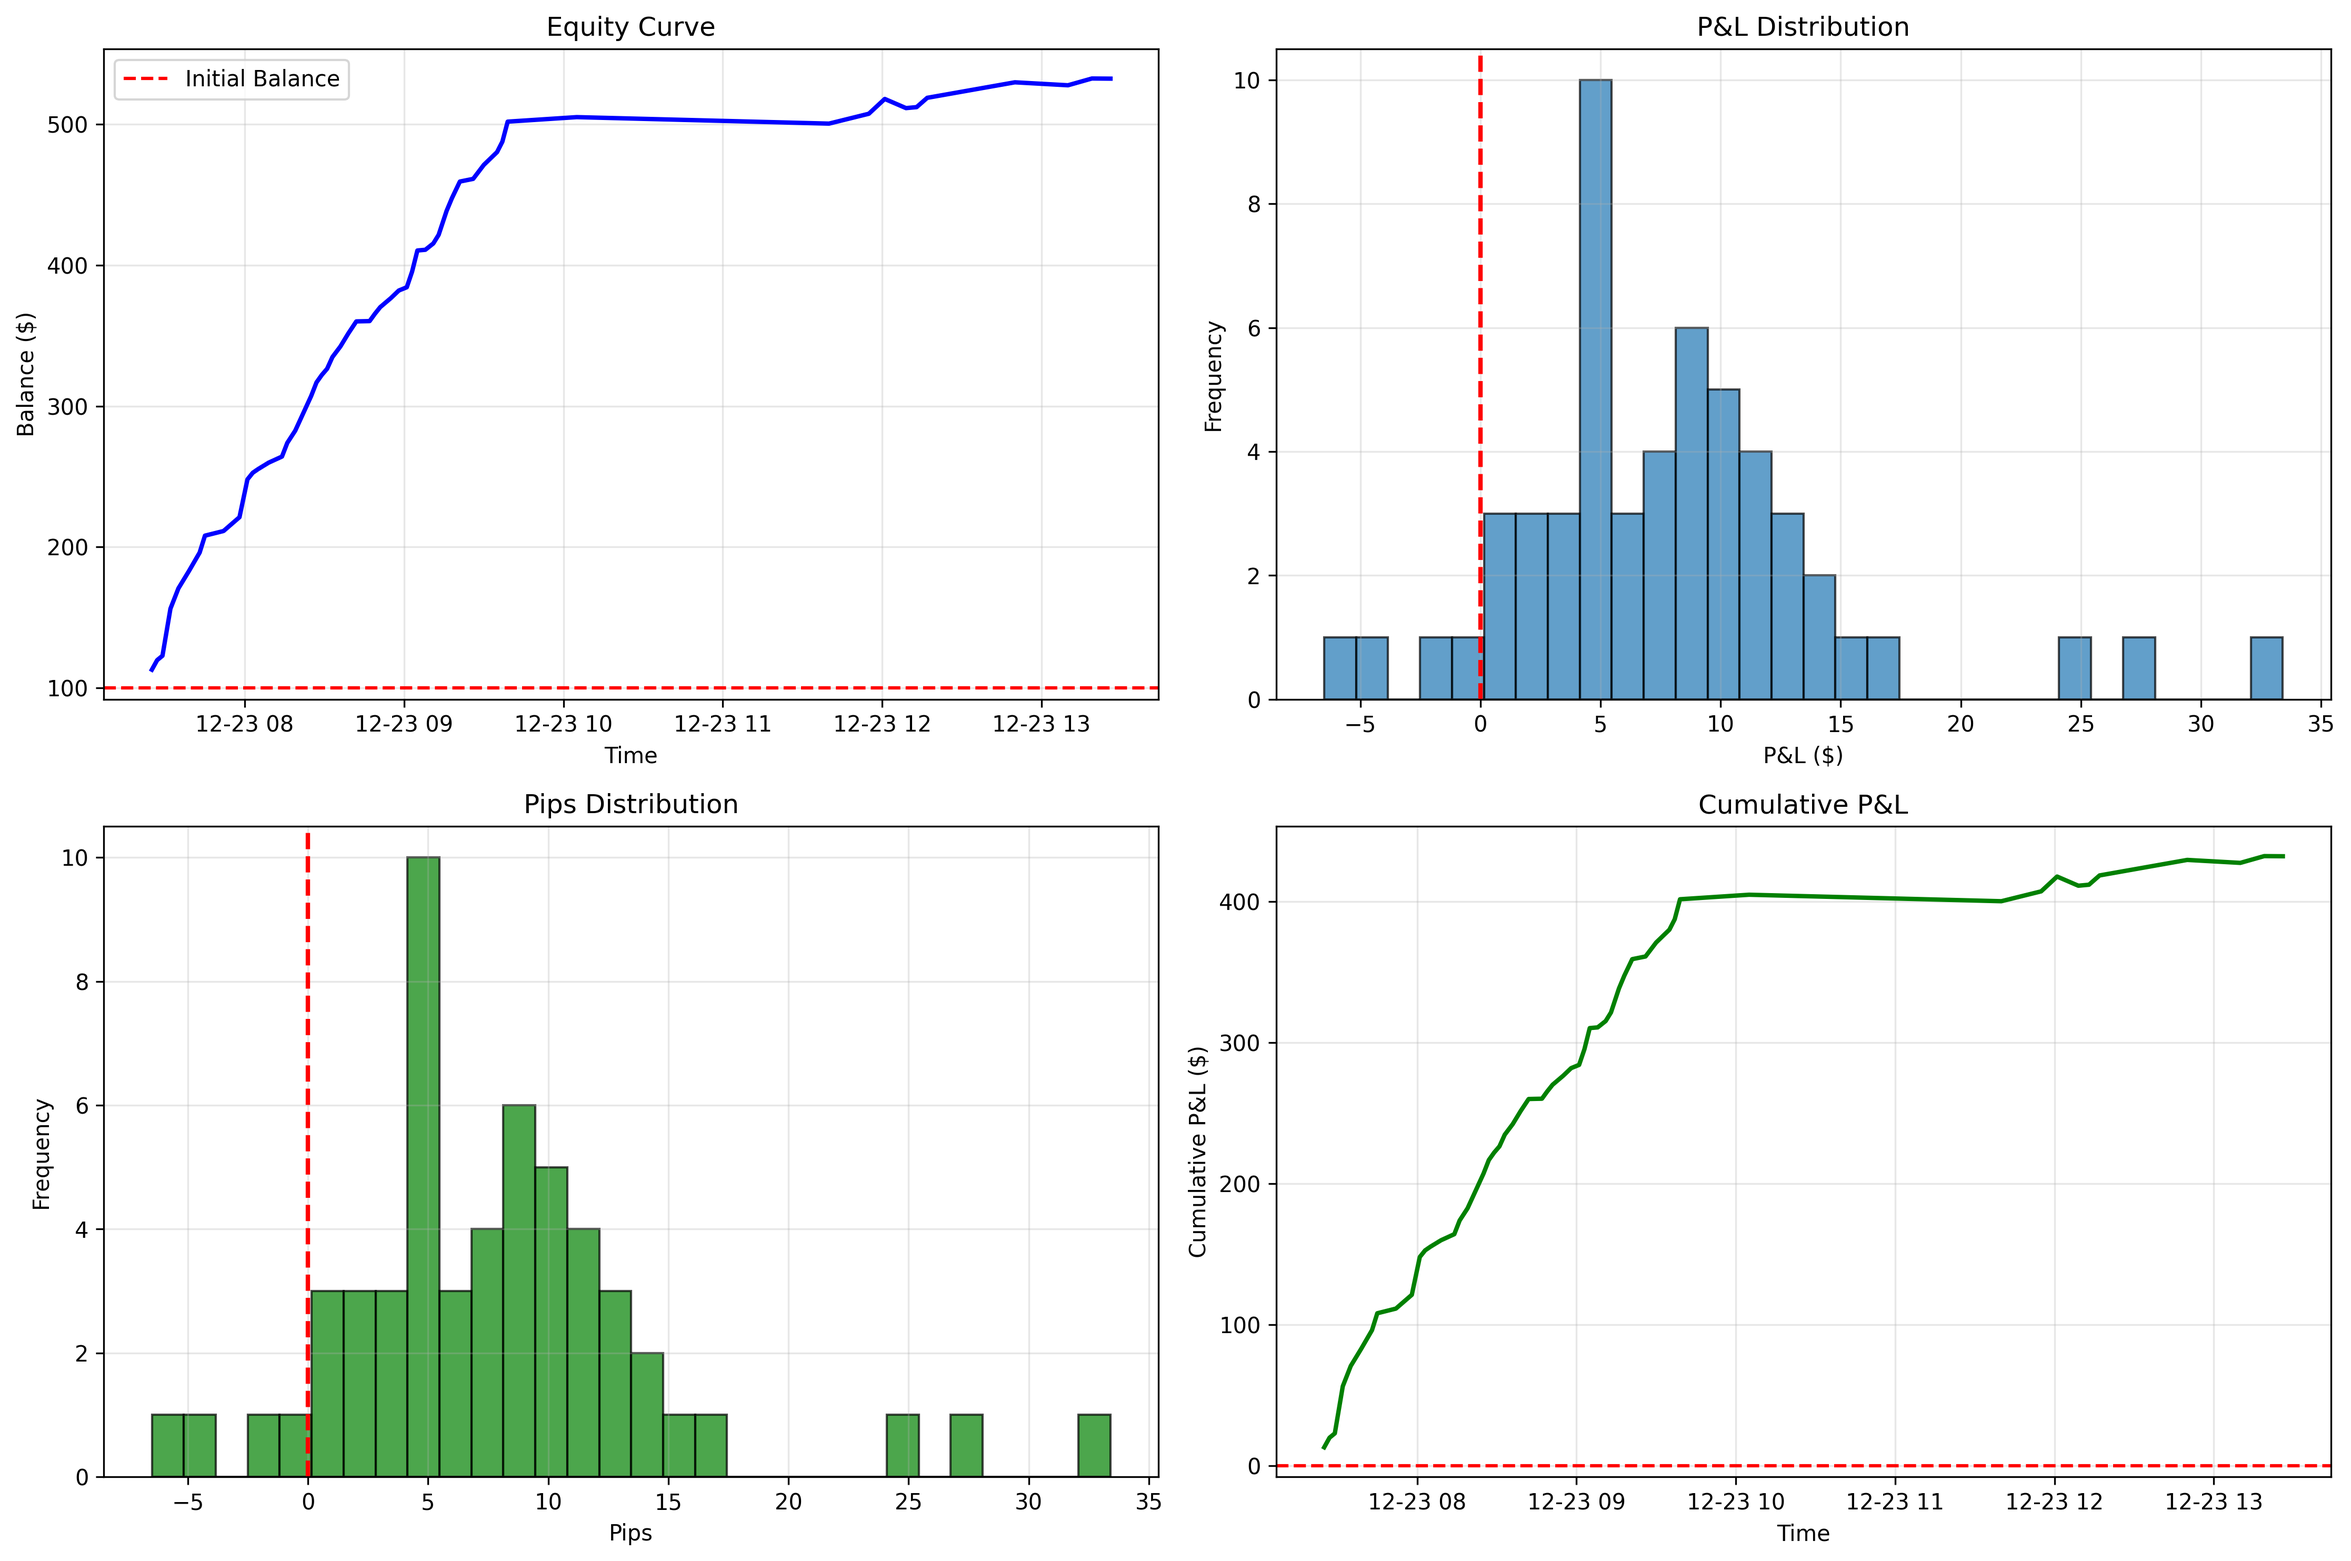
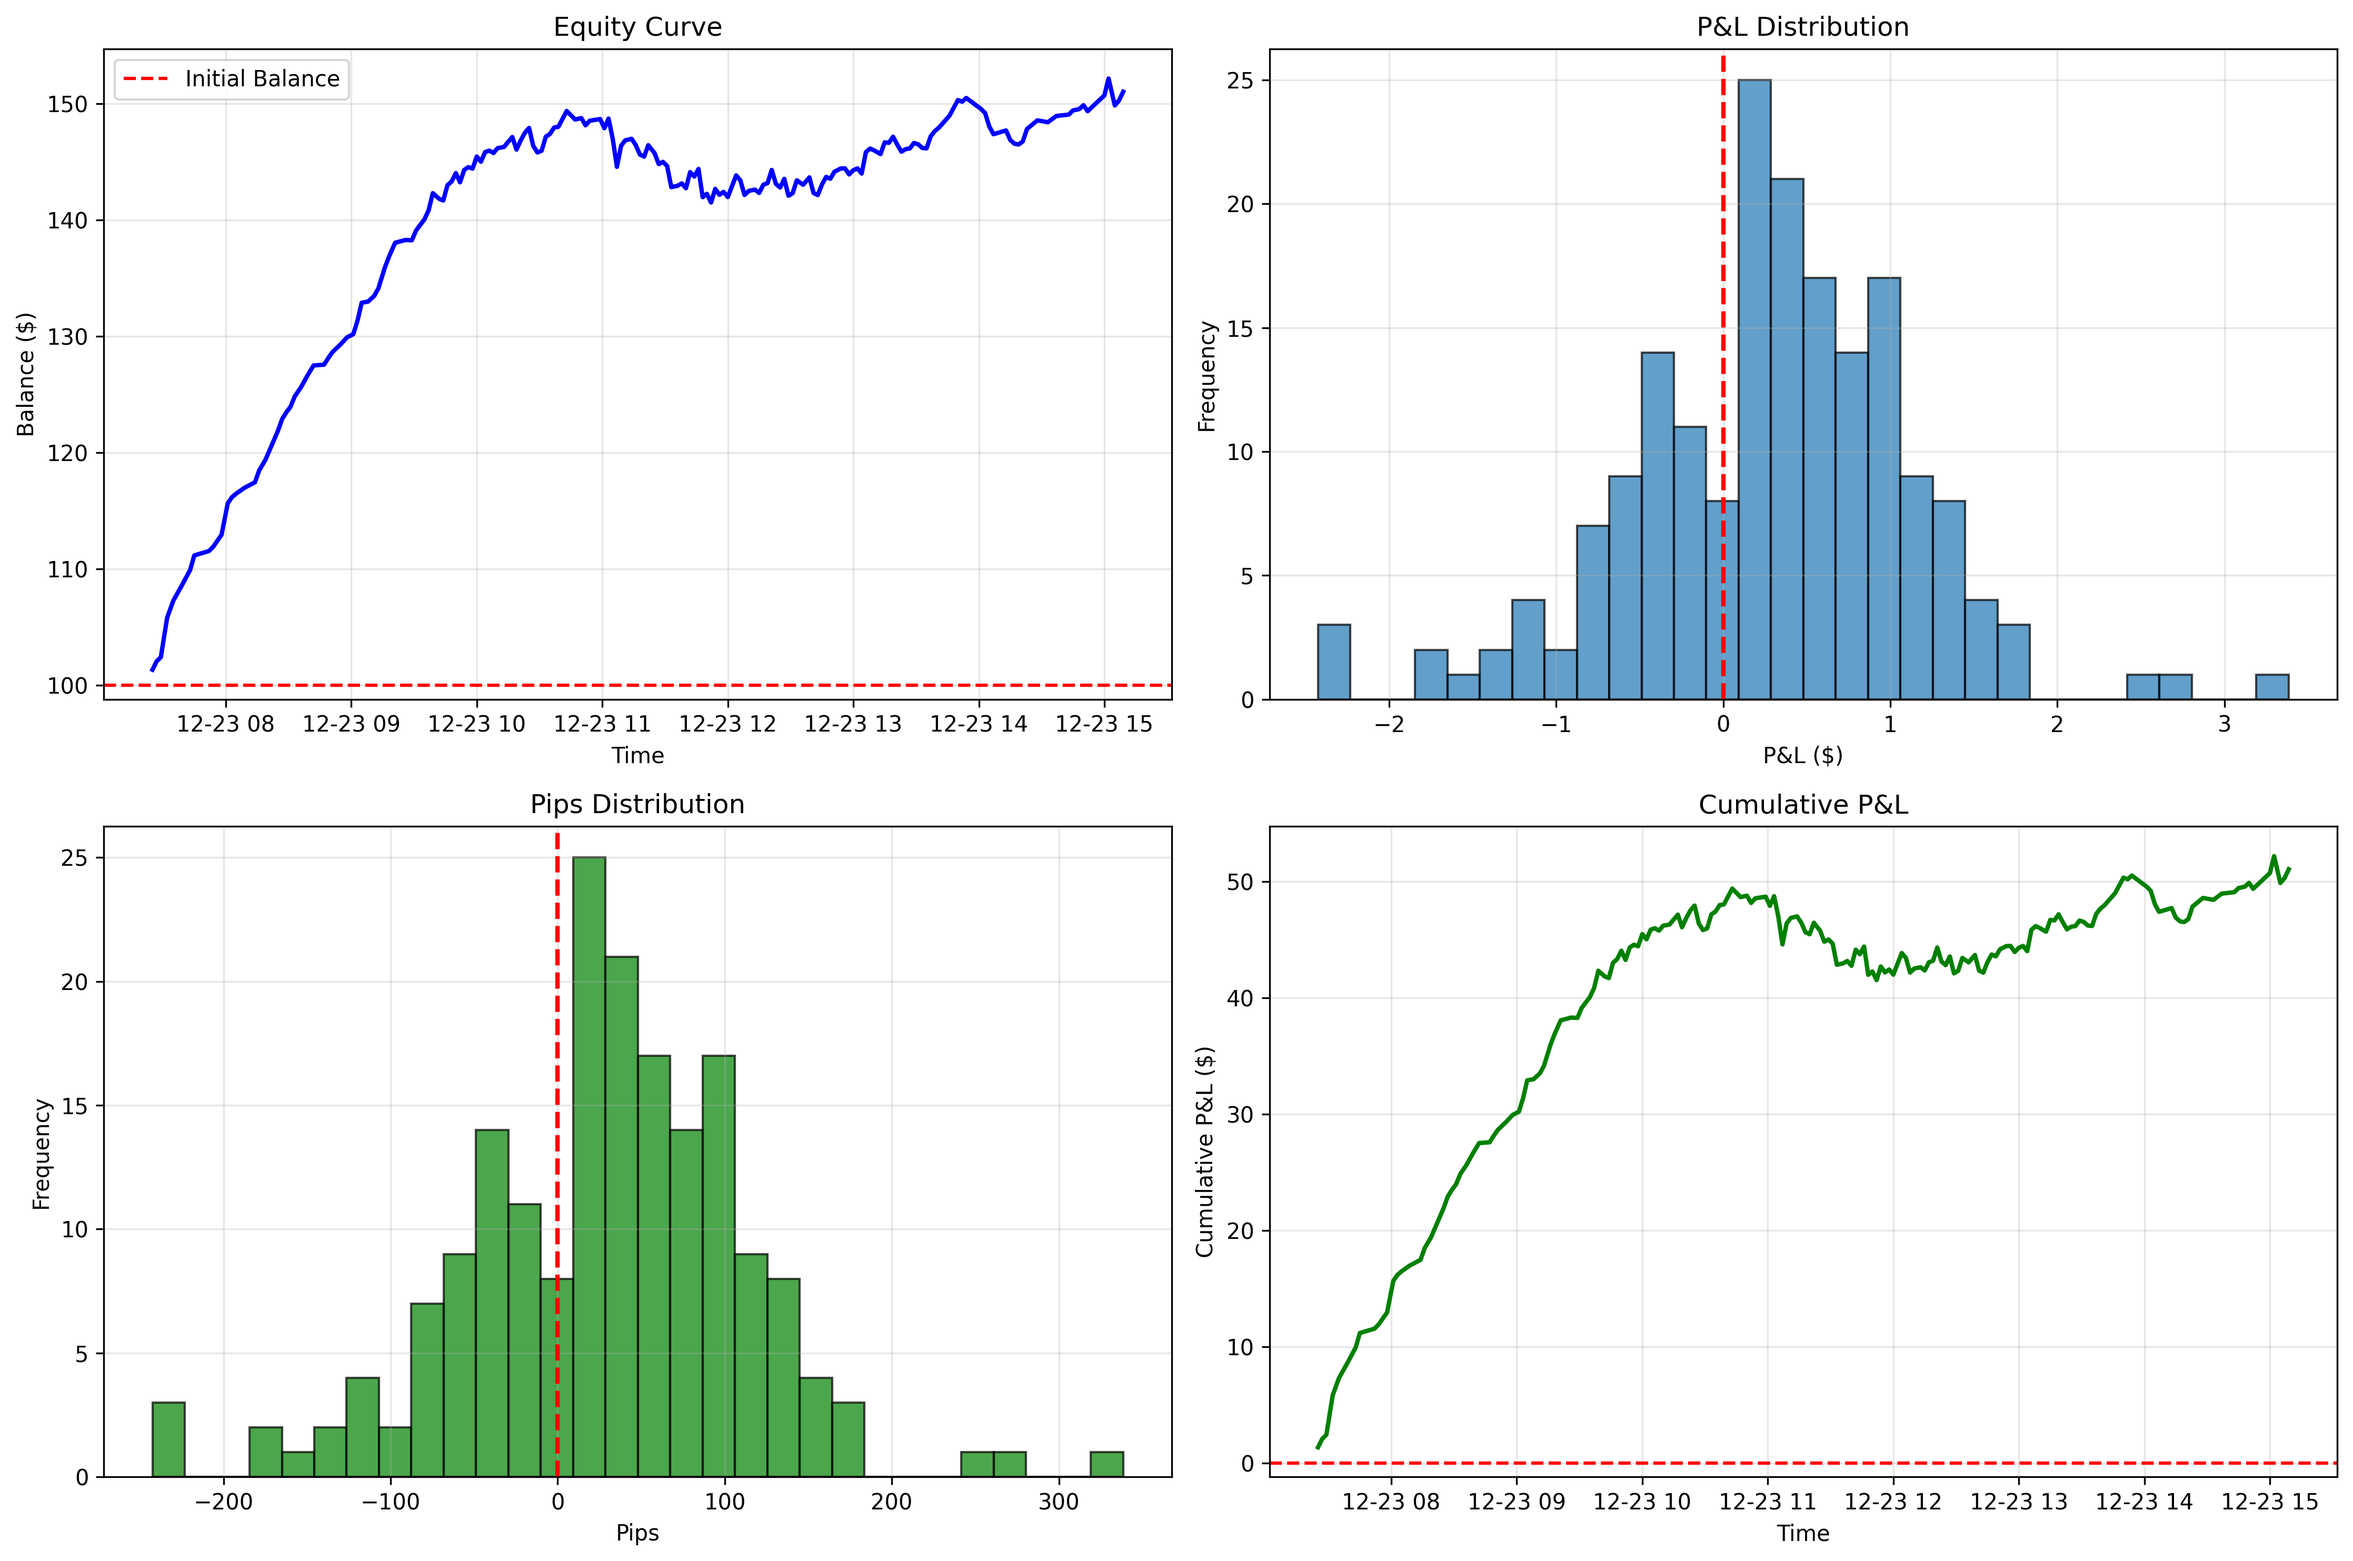
minor changes
setting threshold: 0.38
max_trade_per_day: 200
lot_size: 0.01

diff --git a/backtest.py b/backtest.py
@@ -26,7 +26,7 @@ class ScalpingBacktest:
         self.balance = initial_balance
         
         # Trading parameters
-        self.position_size = 0.1  # 0.01 lot = 1 oz of gold
+        self.position_size = 0.01  # 0.01 lot = 1 oz of gold
         self.pip_value = 0.01  # 1 pip = $0.01 for XAU/USD
         self.spread_cost = 0.5  # average spread in pips
         self.commission = 0  # commission per trade
@@ -79,7 +79,7 @@ class ScalpingBacktest:
         
         return trade
     
-    def run(self, candles_df, ticks_df=None, prediction_threshold=0.5, holding_periods=1):
+    def run(self, candles_df, ticks_df=None, prediction_threshold=0.38, holding_periods=1):
         """
         Run backtest
         
@@ -309,8 +309,8 @@ def run_backtest(model_path, feature_cols_path, prediction_threshold=0.6):
 
 def run_backtest_small_account(model_path, feature_cols_path, 
                                 initial_balance=100,
-                                lot_size=0.1,
-                                prediction_threshold=0.6):
+                                lot_size=0.01,
+                                prediction_threshold=0.38):
     """
     Run backtest optimized for small accounts
     """
@@ -419,8 +419,8 @@ if __name__ == "__main__":
 
     parser = argparse.ArgumentParser(description='Backtest scalping strategy')
     parser.add_argument('--balance', type=float, default=100, help='Initial balance')
-    parser.add_argument('--lot-size', type=float, default=0.1, help='Position size')
-    parser.add_argument('--threshold', type=float, default=0.7, help='Prediction threshold')
+    parser.add_argument('--lot-size', type=float, default=0.01, help='Position size')
+    parser.add_argument('--threshold', type=float, default=0.38, help='Prediction threshold')
     args = parser.parse_args()
 
     # Find latest model

diff --git a/live_trade.py b/live_trade.py
@@ -24,7 +24,7 @@ class LiveScalpingTrader:
         
         # Trading parameters
         self.symbol = SYMBOL
-        self.lot_size = 0.1
+        self.lot_size = 0.01
         self.magic_number = 234000
         self.slippage = 10
         
@@ -34,10 +34,10 @@ class LiveScalpingTrader:
         self.take_profit_pips = 15
         self.trailing_stop_pips = 8  # Trailing stop
         self.max_daily_loss = 100
-        self.max_daily_trades = 1440
+        self.max_daily_trades = 200
         
         # Trading signals
-        self.prediction_threshold = 0.6
+        self.prediction_threshold = 0.38
         self.min_data_points = 100
         
         # Signal validation (use Parabolic SAR for confirmation)

diff --git a/README.md b/README.md
@@ -3,5 +3,3 @@
 this just a practice app for training and automating scalping trading
 
 ## Discontinued
-
-need to have paid account in finnhub to use this app
